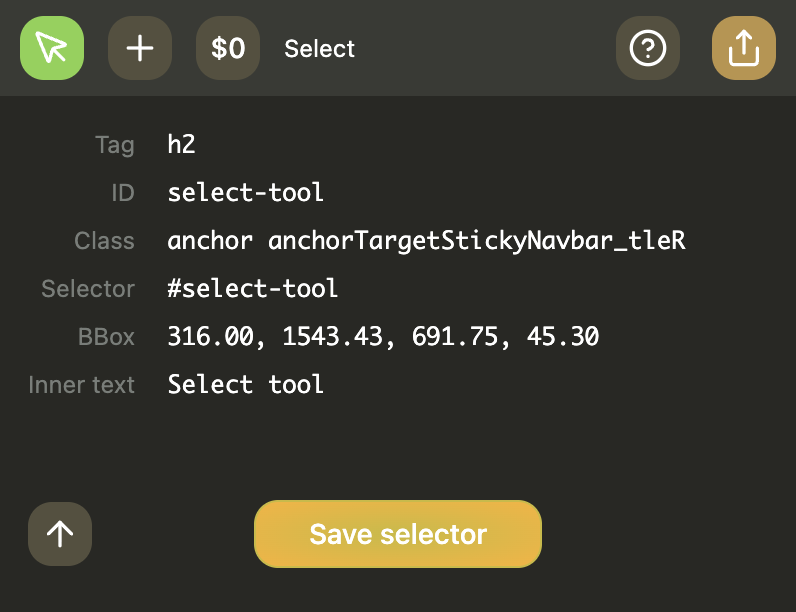
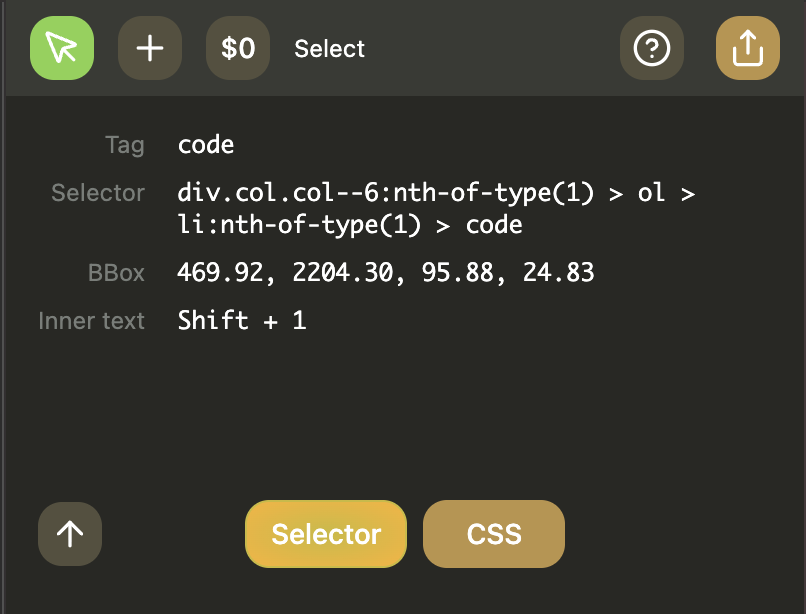
chore: bump version, update docs

diff --git a/web/src/routes/install/+page.svelte b/web/src/routes/install/+page.svelte
@@ -30,7 +30,7 @@
 
   // TODO: some sort of serverless endpoint that checks the latest version on Github releases?
   // Or some Actions workflow that updates the version number in the codebase??
-  const version = "0.2.0";
+  const version = "0.2.1";
 
   onMount(() => {
     const userAgent = navigator.userAgent.toLowerCase();

diff --git a/extension/wxt.config.ts b/extension/wxt.config.ts
@@ -40,7 +40,7 @@ export default defineConfig({
   }),
   manifest: ({ browser }) => ({
     name: "Page Proxy",
-    version: "0.2.0",
+    version: "0.2.1",
     description: "Proxy and restyle pages with an extension-based UI.",
     action: {
       default_title: "Page Proxy",

diff --git a/docs-site/sidebars.ts b/docs-site/sidebars.ts
@@ -3,6 +3,7 @@ import type { SidebarsConfig } from '@docusaurus/plugin-content-docs';
 const sidebars: SidebarsConfig = {
   docsSidebar: [
     'intro',
+    'release-notes',
     'purpose',
     {
       type: 'category',

diff --git a/docs-site/versioned_docs/version-0.2.x/release-notes.md b/docs-site/versioned_docs/version-0.2.x/release-notes.md
@@ -1,0 +1,29 @@
+---
+title: Release notes
+---
+
+# Release notes (v0.2.x)
+
+## New in v0.2.1
+
+- Added Select tool integration with browser DevTools selection:
+  - Detects when DevTools is open for the active tab.
+  - Supports following the currently selected element from DevTools.
+  - Supports parent traversal from the DevTools-backed selection.
+- Improved selector popup and CSS inspector flow:
+  - Split explicit `Selector` and `CSS` entry actions from the Select tool.
+  - Improved key handling for preview controls (`z` and `x`) in CSS inspector.
+  - Refactored popup internals for more reliable save/insert behavior.
+- Updated Help tool delivery:
+  - Help content is now fetched from `extension/HELP.md` in the GitHub repo.
+  - Markdown content is rendered and sanitized before display.
+- Fixed multiple stability issues:
+  - Sourcemap configuration issue in extension build output.
+  - Sidepanel bottom-banner overlap/visibility issue.
+  - General link, lint/type, and integration reliability fixes.
+
+## New in v0.2.0
+
+- New `pp` entrypoint modules: `pa` (page API), `pn` (network API), and `pt` (storage API).
+- Metadata now supports `@grant`, with `run-on-page-load` permission flow.
+- Selector popup now includes CSS inspector mode with selector-part inspection, computed-style editing, and live preview controls.

diff --git a/docs-site/docs/release-notes.md b/docs-site/docs/release-notes.md
@@ -1,0 +1,29 @@
+---
+title: Release notes
+---
+
+# Release notes (next)
+
+## New in v0.2.1
+
+- Added Select tool integration with browser DevTools selection:
+  - Detects when DevTools is open for the active tab.
+  - Supports following the currently selected element from DevTools.
+  - Supports parent traversal from the DevTools-backed selection.
+- Improved selector popup and CSS inspector flow:
+  - Split explicit `Selector` and `CSS` entry actions from the Select tool.
+  - Improved key handling for preview controls (`z` and `x`) in CSS inspector.
+  - Refactored popup internals for more reliable save/insert behavior.
+- Updated Help tool delivery:
+  - Help content is now fetched from `extension/HELP.md` in the GitHub repo.
+  - Markdown content is rendered and sanitized before display.
+- Fixed multiple stability issues:
+  - Sourcemap configuration issue in extension build output.
+  - Sidepanel bottom-banner overlap/visibility issue.
+  - General link, lint/type, and integration reliability fixes.
+
+## New in v0.2.0
+
+- New `pp` entrypoint modules: `pa` (page API), `pn` (network API), and `pt` (storage API).
+- Metadata now supports `@grant`, with `run-on-page-load` permission flow.
+- Selector popup now includes CSS inspector mode with selector-part inspection, computed-style editing, and live preview controls.

diff --git a/docs-site/versioned_docs/version-0.2.x/pp/pv-event.md b/docs-site/versioned_docs/version-0.2.x/pp/pv-event.md
@@ -4,7 +4,7 @@ title: pv (Event API)
 
 # pv module (v0.2.x)
 
-`pv` handles DOM creation events.
+`pv` handles DOM creation and keyboard events.
 
 ```js
 import { pv } from "@page-proxy/pp";
@@ -41,6 +41,32 @@ const observer = pv.onElementCreated((el) => {
 ```js
 observer.runOnTargetNode();
 observer.disconnect();
+```
+
+## `onKeyPressed(keys, func, options)`
+
+Runs `func` when a key combo matches.
+
+Options:
+
+- `keyAction?: ("press" | "release")[]` (default `["press"]`)
+- `cancel?: boolean` (default `true`, prevents default browser behavior)
+
+Returns a cleanup function that removes the event listeners.
+
+```js
+const stop = pv.onKeyPressed(
+  "shift+x",
+  () => {
+    console.log("Shift+X pressed");
+  },
+  {
+    keyAction: ["press", "release"],
+  },
+);
+
+// Later:
+stop();
 ```
 
 For notifications, use `pa.notification(...)`.

diff --git a/docs-site/docs/pp/pv-event.md b/docs-site/docs/pp/pv-event.md
@@ -4,7 +4,7 @@ title: pv (Event API)
 
 # pv module (next)
 
-`pv` handles DOM creation events.
+`pv` handles DOM creation and keyboard events.
 
 ```js
 import { pv } from "@page-proxy/pp";
@@ -41,6 +41,32 @@ const observer = pv.onElementCreated((el) => {
 ```js
 observer.runOnTargetNode();
 observer.disconnect();
+```
+
+## `onKeyPressed(keys, func, options)`
+
+Runs `func` when a key combo matches.
+
+Options:
+
+- `keyAction?: ("press" | "release")[]` (default `["press"]`)
+- `cancel?: boolean` (default `true`, prevents default browser behavior)
+
+Returns a cleanup function that removes the event listeners.
+
+```js
+const stop = pv.onKeyPressed(
+  "shift+x",
+  () => {
+    console.log("Shift+X pressed");
+  },
+  {
+    keyAction: ["press", "release"],
+  },
+);
+
+// Later:
+stop();
 ```
 
 For notifications, use `pa.notification(...)`.

diff --git a/docs-site/docs/pp/pa-api.md b/docs-site/docs/pp/pa-api.md
@@ -27,10 +27,18 @@ pa.notification("User synced", { id: "u_42", plan: "pro" });
 pa.notification("Primary button", document.querySelector(".btn-primary"));
 ```
 
-## API alias
+## `renderMarkdown(content, options)`
 
-`pa.pp` is the same API object used by the legacy global `pp` alias.
+Renders markdown to sanitized HTML.
+
+Options:
+
+- `breaks?: boolean` (default `true`)
+- `linkTarget?: string` (default `"_blank"`)
+- `linkRel?: string` (default `"noreferrer noopener"`)
+- `linkReferrerPolicy?: string` (default `"no-referrer"`)
 
 ```js
-pa.pp.notification("hello from pp");
+const html = pa.renderMarkdown("See [docs](https://orangishcat.github.io/page-proxy/docs)");
+document.querySelector("#help")?.insertAdjacentHTML("beforeend", html);
 ```

diff --git a/docs-site/versioned_docs/version-0.2.x/pp/pa-api.md b/docs-site/versioned_docs/version-0.2.x/pp/pa-api.md
@@ -27,10 +27,18 @@ pa.notification("User synced", { id: "u_42", plan: "pro" });
 pa.notification("Primary button", document.querySelector(".btn-primary"));
 ```
 
-## API alias
+## `renderMarkdown(content, options)`
 
-`pa.pp` is the same API object used by the legacy global `pp` alias.
+Renders markdown to sanitized HTML.
+
+Options:
+
+- `breaks?: boolean` (default `true`)
+- `linkTarget?: string` (default `"_blank"`)
+- `linkRel?: string` (default `"noreferrer noopener"`)
+- `linkReferrerPolicy?: string` (default `"no-referrer"`)
 
 ```js
-pa.pp.notification("hello from pp");
+const html = pa.renderMarkdown("See [docs](https://orangishcat.github.io/page-proxy/docs)");
+document.querySelector("#help")?.insertAdjacentHTML("beforeend", html);
 ```

diff --git a/docs-site/versioned_docs/version-0.2.x/intro.md b/docs-site/versioned_docs/version-0.2.x/intro.md
@@ -7,8 +7,4 @@ slug: /
 
 This version documents the `pp` library APIs available in **v0.2.x**, plus a few guides and tutorials to help you get started.
 
-## What changed since v0.1.6
-
-- New `pp` entrypoint modules: `pa` (page API), `pn` (network API), and `pt` (storage API).
-- Metadata now supports `@grant`, with `run-on-page-load` permission flow.
-- Selector popup now includes CSS inspector mode with selector-part inspection, computed-style editing, and live preview controls.
+The latest patch version is `v0.2.1`. View [Release notes](./release-notes) to learn more.

diff --git a/docs-site/docs/intro.md b/docs-site/docs/intro.md
@@ -7,8 +7,4 @@ slug: /
 
 This version documents the `pp` library APIs available in **next**, plus a few guides and tutorials to help you get started.
 
-## What changed since v0.1.6
-
-- New `pp` entrypoint modules: `pa` (page API), `pn` (network API), and `pt` (storage API).
-- Metadata now supports `@grant`, with `run-on-page-load` permission flow.
-- Selector popup now includes CSS inspector mode with selector-part inspection, computed-style editing, and live preview controls.
+## Latest patch version: `v0.2.1`

diff --git a/docs-site/docs/pp/pn-network.md b/docs-site/docs/pp/pn-network.md
@@ -55,3 +55,15 @@ These call `pn.fetch` with the corresponding HTTP method:
 const response = await pn.get("https://api.example.com/items", { cache: true });
 const data = await response.json();
 ```
+
+## `pn.invalidateCache(key)`
+
+Deletes cached response entries for a cache key (or URL).
+
+- Returns `true` if at least one cache entry was removed.
+- Returns `false` if no matching cache entry exists.
+
+```js
+pn.invalidateCache("items:list");
+pn.invalidateCache("https://api.example.com/items");
+```
